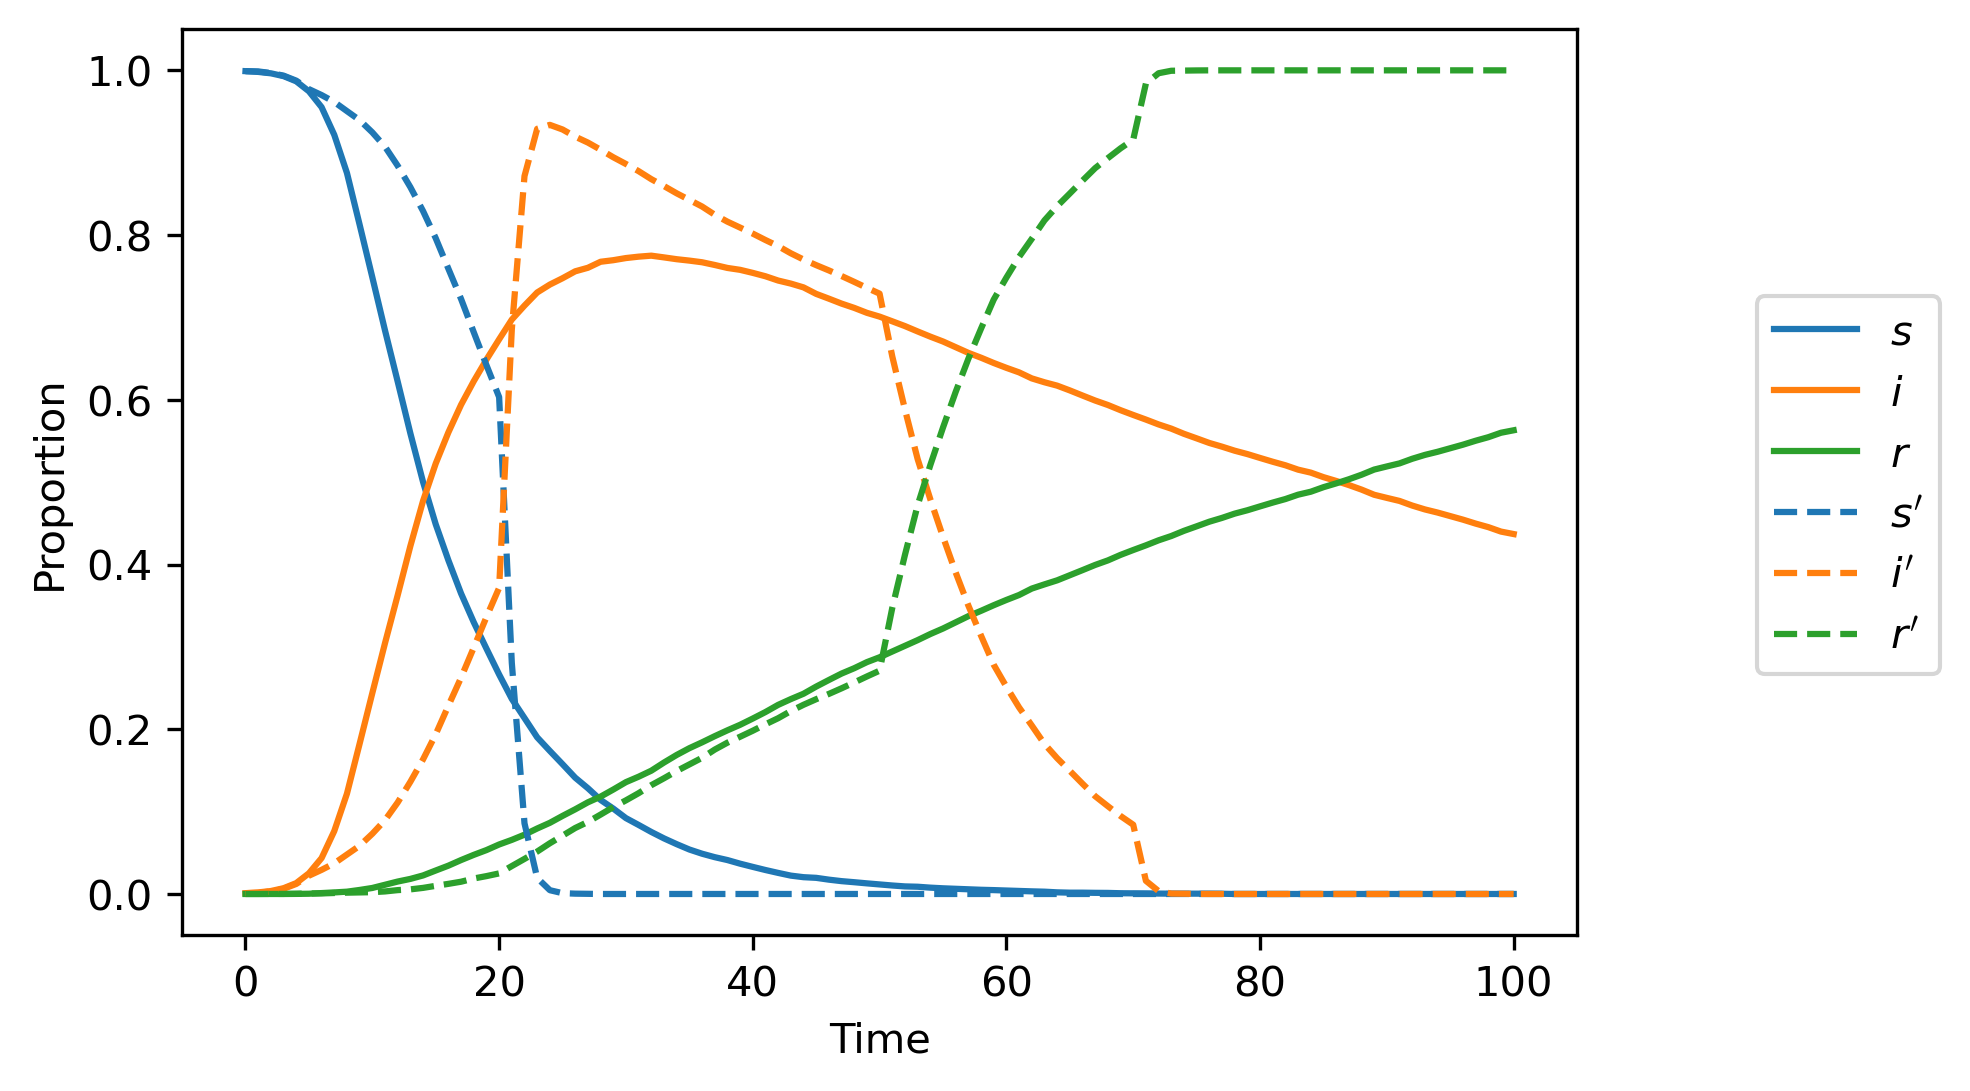
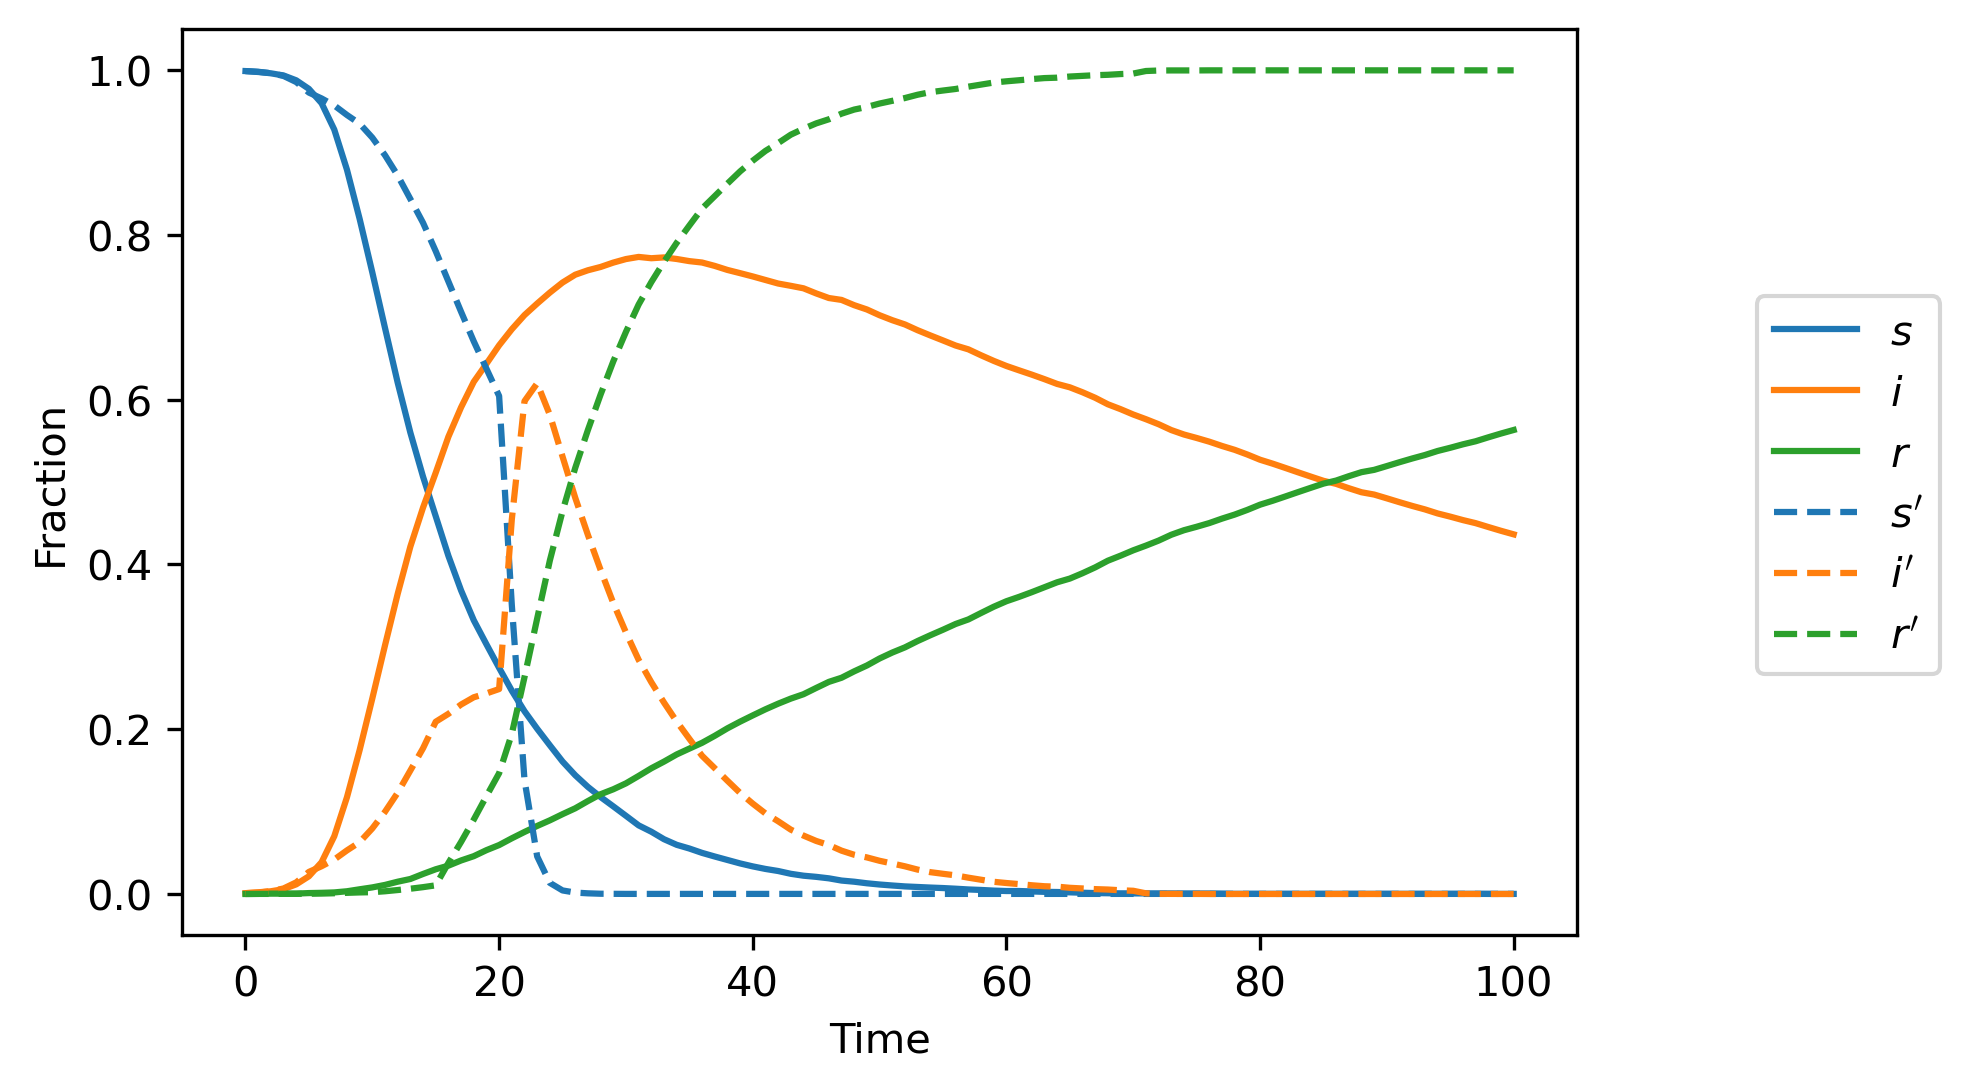
check pre-peak drug effect

diff --git a/scripts/agent_varparm_simulation.py b/scripts/agent_varparm_simulation.py
@@ -1,30 +1,32 @@
 import sys
 sys.path.append('../sir')
 from agent_varparm import PopulationVarparm
+import numpy as np
 import pandas as pd
 import matplotlib.pyplot as plt
+import copy
 
-
-def plot_sir(sirs, sirs2=None, save_as=None):
+def plot_sir(sirs, sirs2=None, event_time=None, save_as=None):
+    """
+    event_time: when sirs2 start to differ from sirs
+    """
     T = len(sirs)
     fig, ax = plt.subplots()
     ax.plot(range(T), sirs[:,0], label = r'$s$')
     ax.plot(range(T), sirs[:,1], label = r'$i$')
     ax.plot(range(T), sirs[:,2], label = r'$r$')
     ax.set_xlabel('Time')
-    ax.set_ylabel('Proportion')
+    ax.set_ylabel('Fraction')
 
     if sirs2 is not None:
-        ax.plot(range(T), sirs2[:,0], label = r'$s^\prime$', c='C0', linestyle='--')
-        ax.plot(range(T), sirs2[:,1], label = r'$i^\prime$', c='C1', linestyle='--')
-        ax.plot(range(T), sirs2[:,2], label = r'$r^\prime$', c='C2', linestyle='--')
+        ax.plot(range(event_time,T), sirs2[:,0], label = r'$s^\prime$', c='C0', linestyle='--')
+        ax.plot(range(event_time,T), sirs2[:,1], label = r'$i^\prime$', c='C1', linestyle='--')
+        ax.plot(range(event_time,T), sirs2[:,2], label = r'$r^\prime$', c='C2', linestyle='--')
 
     fig.legend(bbox_to_anchor=(1,0.5), loc="center left", borderaxespad=0)
 
     if save_as:
         fig.savefig(f'../output/{save_as}.png', dpi=300, bbox_inches='tight')
-
-    # fig.show()
 
 
 # hyper parm
@@ -40,24 +42,50 @@ plot_sir(sirs, save_as='agent_varparm_base_case')
 
 
 # social distancing
-pop = PopulationVarparm(N,i0)
-bs = [10]*5 + [3]*25 + [1]*70 # social distancing
-sirs_dist = pop.simulation(T=T, b=bs, k=k, p=p)
-plot_sir(sirs, sirs_dist, 'agent_varparm_social_distancing')
+pop0 = PopulationVarparm(N,i0)
+bprds = [5, 25, 70]
+bs = [10, 3, 1]
+sirs = pop0.simulation(T=bprds[0], b=bs[0], k=k, p=p)
+pop1 = copy.copy(pop0)
+sirs_dist = copy.copy(sirs[-1])
+for prd, b_ in zip(bprds[1:], bs[1:]):
+    sirs = np.vstack((sirs, pop0.simulation(T=prd, b=bs[0], k=k, p=p)[1:]))
+    sirs_dist = np.vstack((sirs_dist, pop1.simulation(T=prd, b=b_, k=k, p=p)[1:]))
+
+plot_sir(sirs, sirs_dist, bprds[0], 'agent_varparm_social_distancing')
 
 # drug developement and distribution
-pop = PopulationVarparm(N,i0)
-ks = [0.01]*50 + [0.1]*20 + [0.8]*30
-sirs_drug = pop.simulation(T=T, b=b, k=ks, p=p)
-plot_sir(sirs, sirs_drug, 'agent_varparm_drug')
+pop0 = PopulationVarparm(N,i0)
+kprds = [15, 55, 30]
+ks = [0.01, 0.1, 0.8]
+sirs = pop0.simulation(T=kprds[0], b=b, k=ks[0], p=p)
+pop1 = copy.copy(pop0)
+sirs_drug = copy.copy(sirs[-1])
+for prd, k_ in zip(kprds[1:], ks[1:]):
+    sirs = np.vstack((sirs, pop0.simulation(T=prd, b=b, k=ks[0], p=p)[1:]))
+    sirs_drug = np.vstack((sirs_drug, pop1.simulation(T=prd, b=b, k=k_, p=p)[1:]))
+
+plot_sir(sirs, sirs_drug, kprds[0], 'agent_varparm_drug')
 
 # virus mutation
-pop = PopulationVarparm(N,i0)
-ps = [0.1]*20 + [0.8]*80 # mutation, become more infectious
-sirs_mut = pop.simulation(T=T, b=b, k=k, p=ps)
-plot_sir(sirs, sirs_mut, 'agent_varparm_mutation')
+pop0 = PopulationVarparm(N,i0)
+pprds = [20, 80]
+ps = [0.1, 0.8]
+sirs = pop0.simulation(T=pprds[0], b=b, k=k, p=ps[0])
+pop1 = copy.copy(pop0)
+sirs_mut = copy.copy(sirs[-1])
+for prd, p_ in zip(pprds[1:], ps[1:]):
+    sirs = np.vstack((sirs, pop0.simulation(T=prd, b=b, k=k, p=ps[0])[1:]))
+    sirs_mut = np.vstack((sirs_mut, pop1.simulation(T=prd, b=b, k=k, p=p_)[1:]))
+plot_sir(sirs, sirs_mut, pprds[0], 'agent_varparm_mutation')
+
+
+
 
 # all together
 pop = PopulationVarparm(N,i0)
-sirs_all = pop.simulation(T=T, b=bs, k=ks, p=ps)
-plot_sir(sirs, sirs_all, 'agent_varparm_all')
+sirs_all = pop.simulation(T=T, b=np.repeat(bs, bprds),
+                                k=np.repeat(ks, kprds),
+                                p=np.repeat(ps, pprds))
+
+plot_sir(sirs, sirs_all, 0, 'agent_varparm_all')
